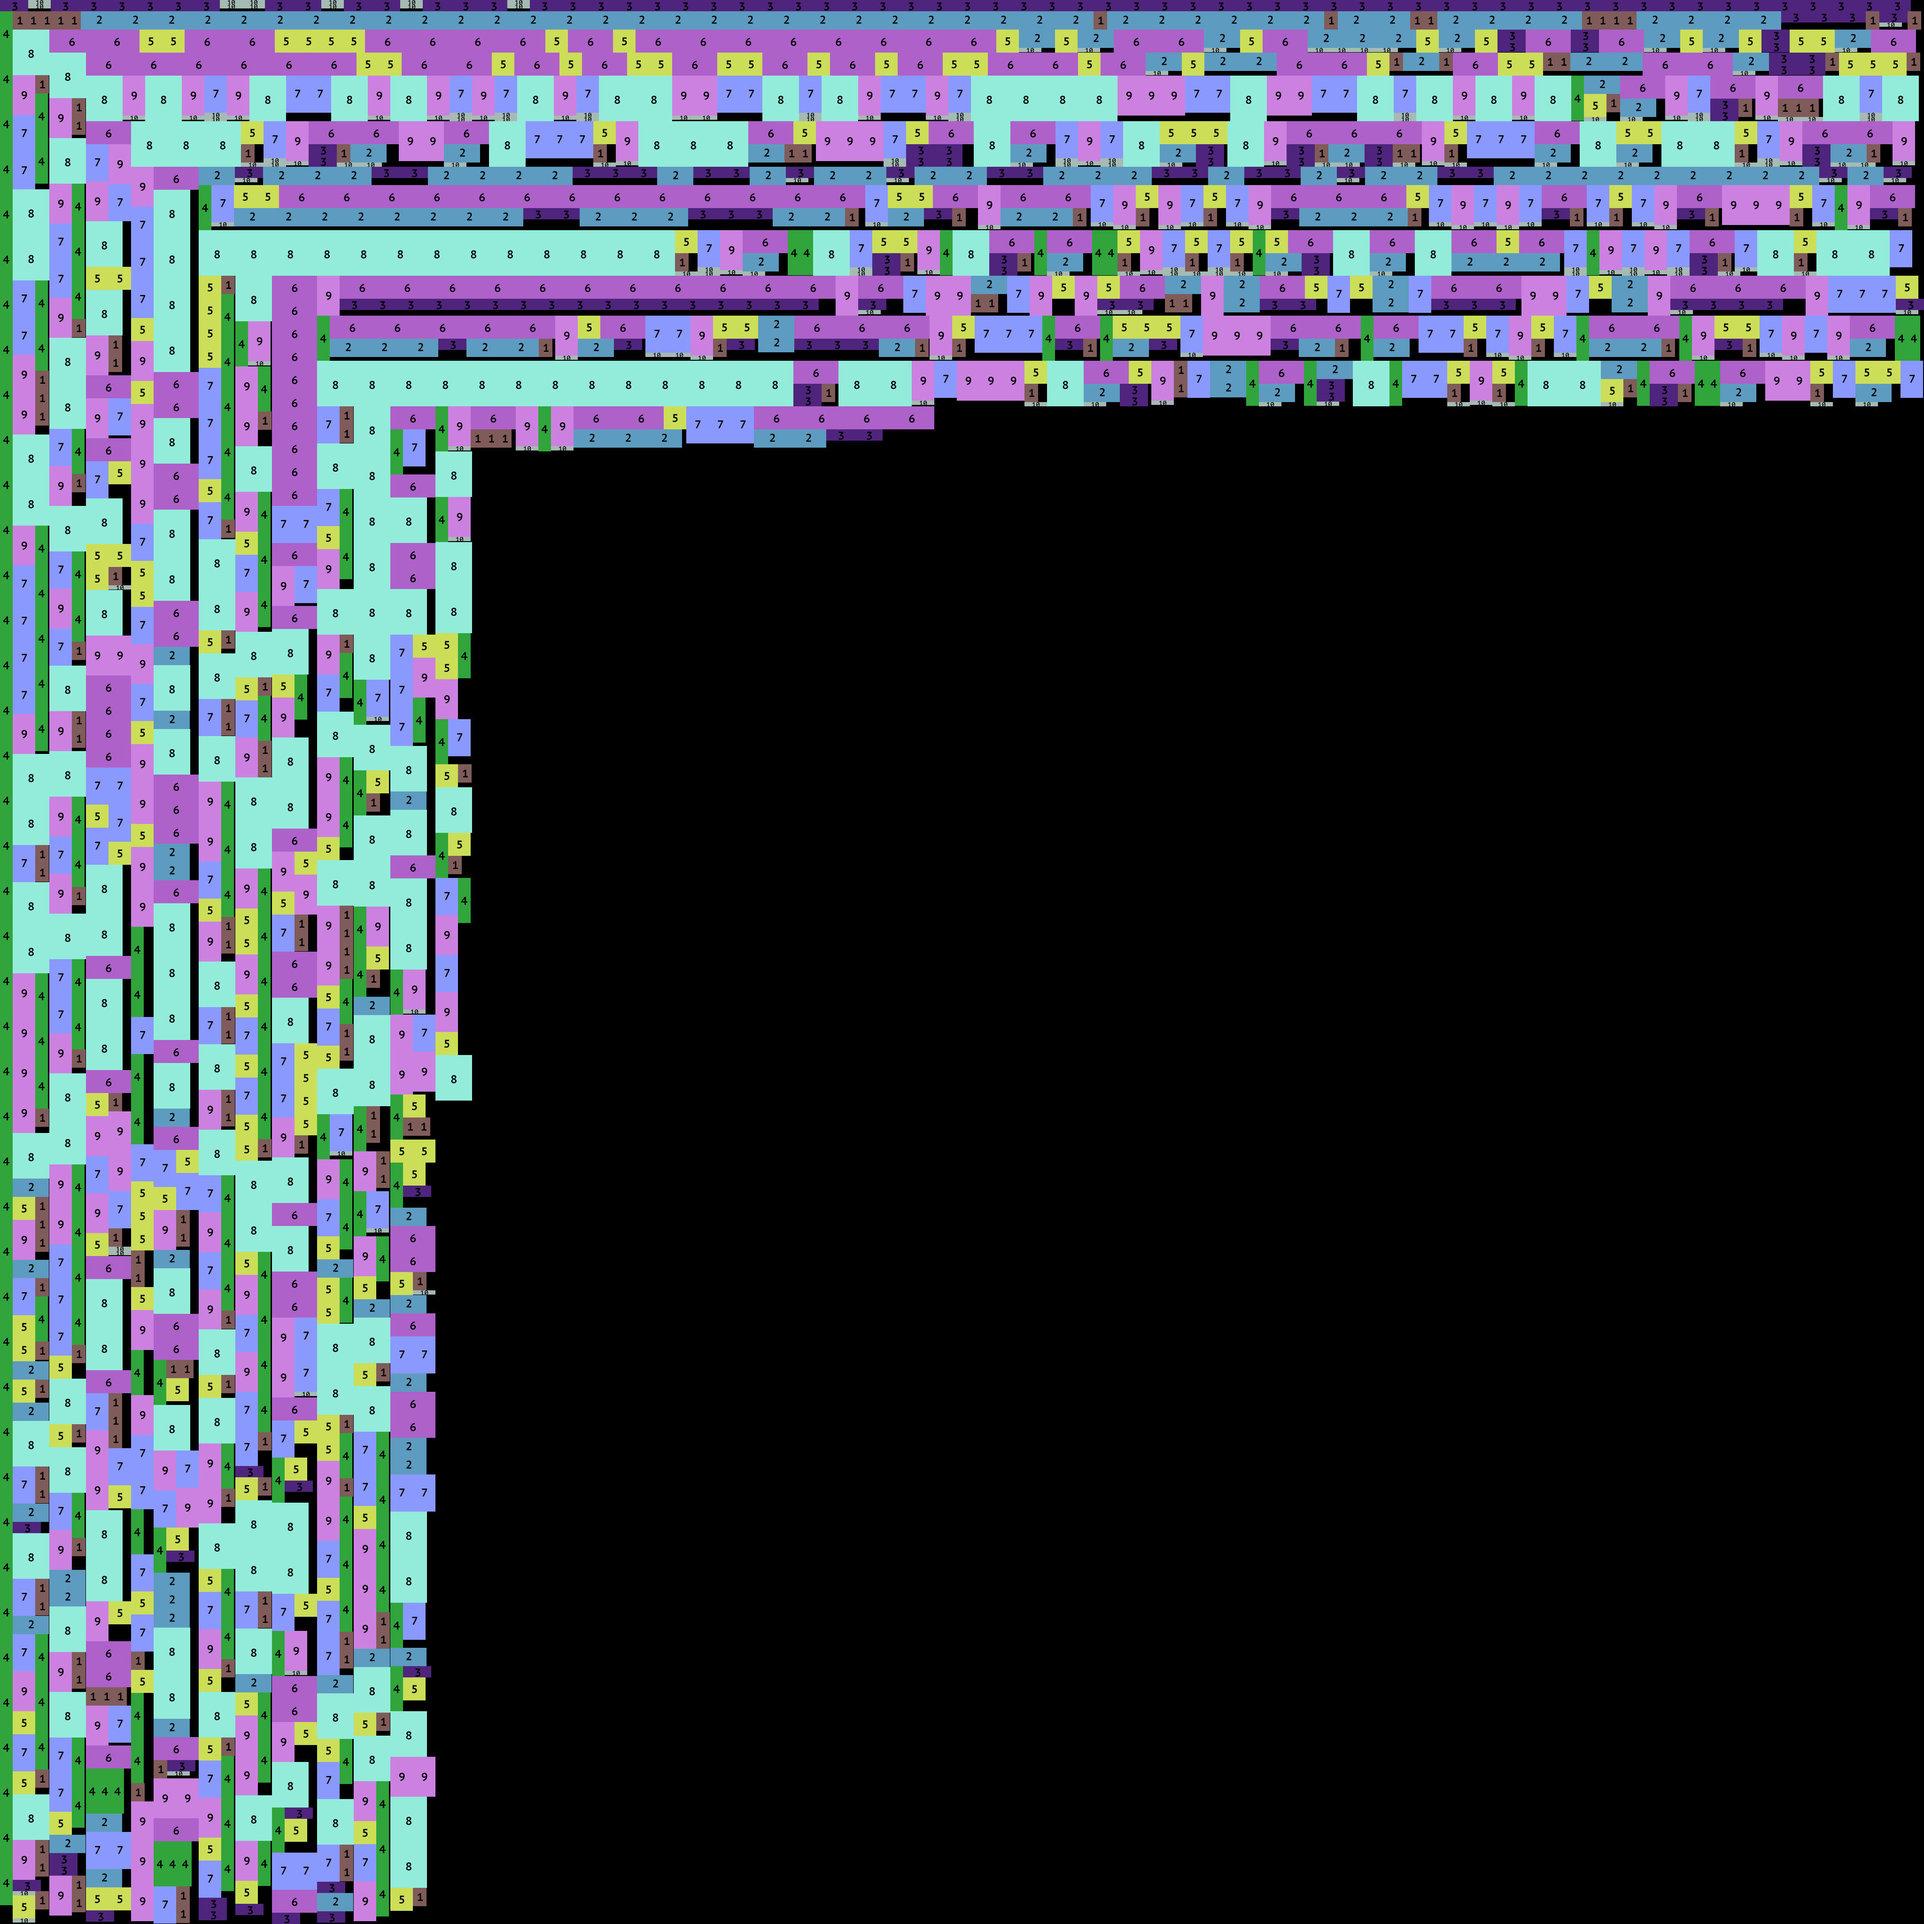
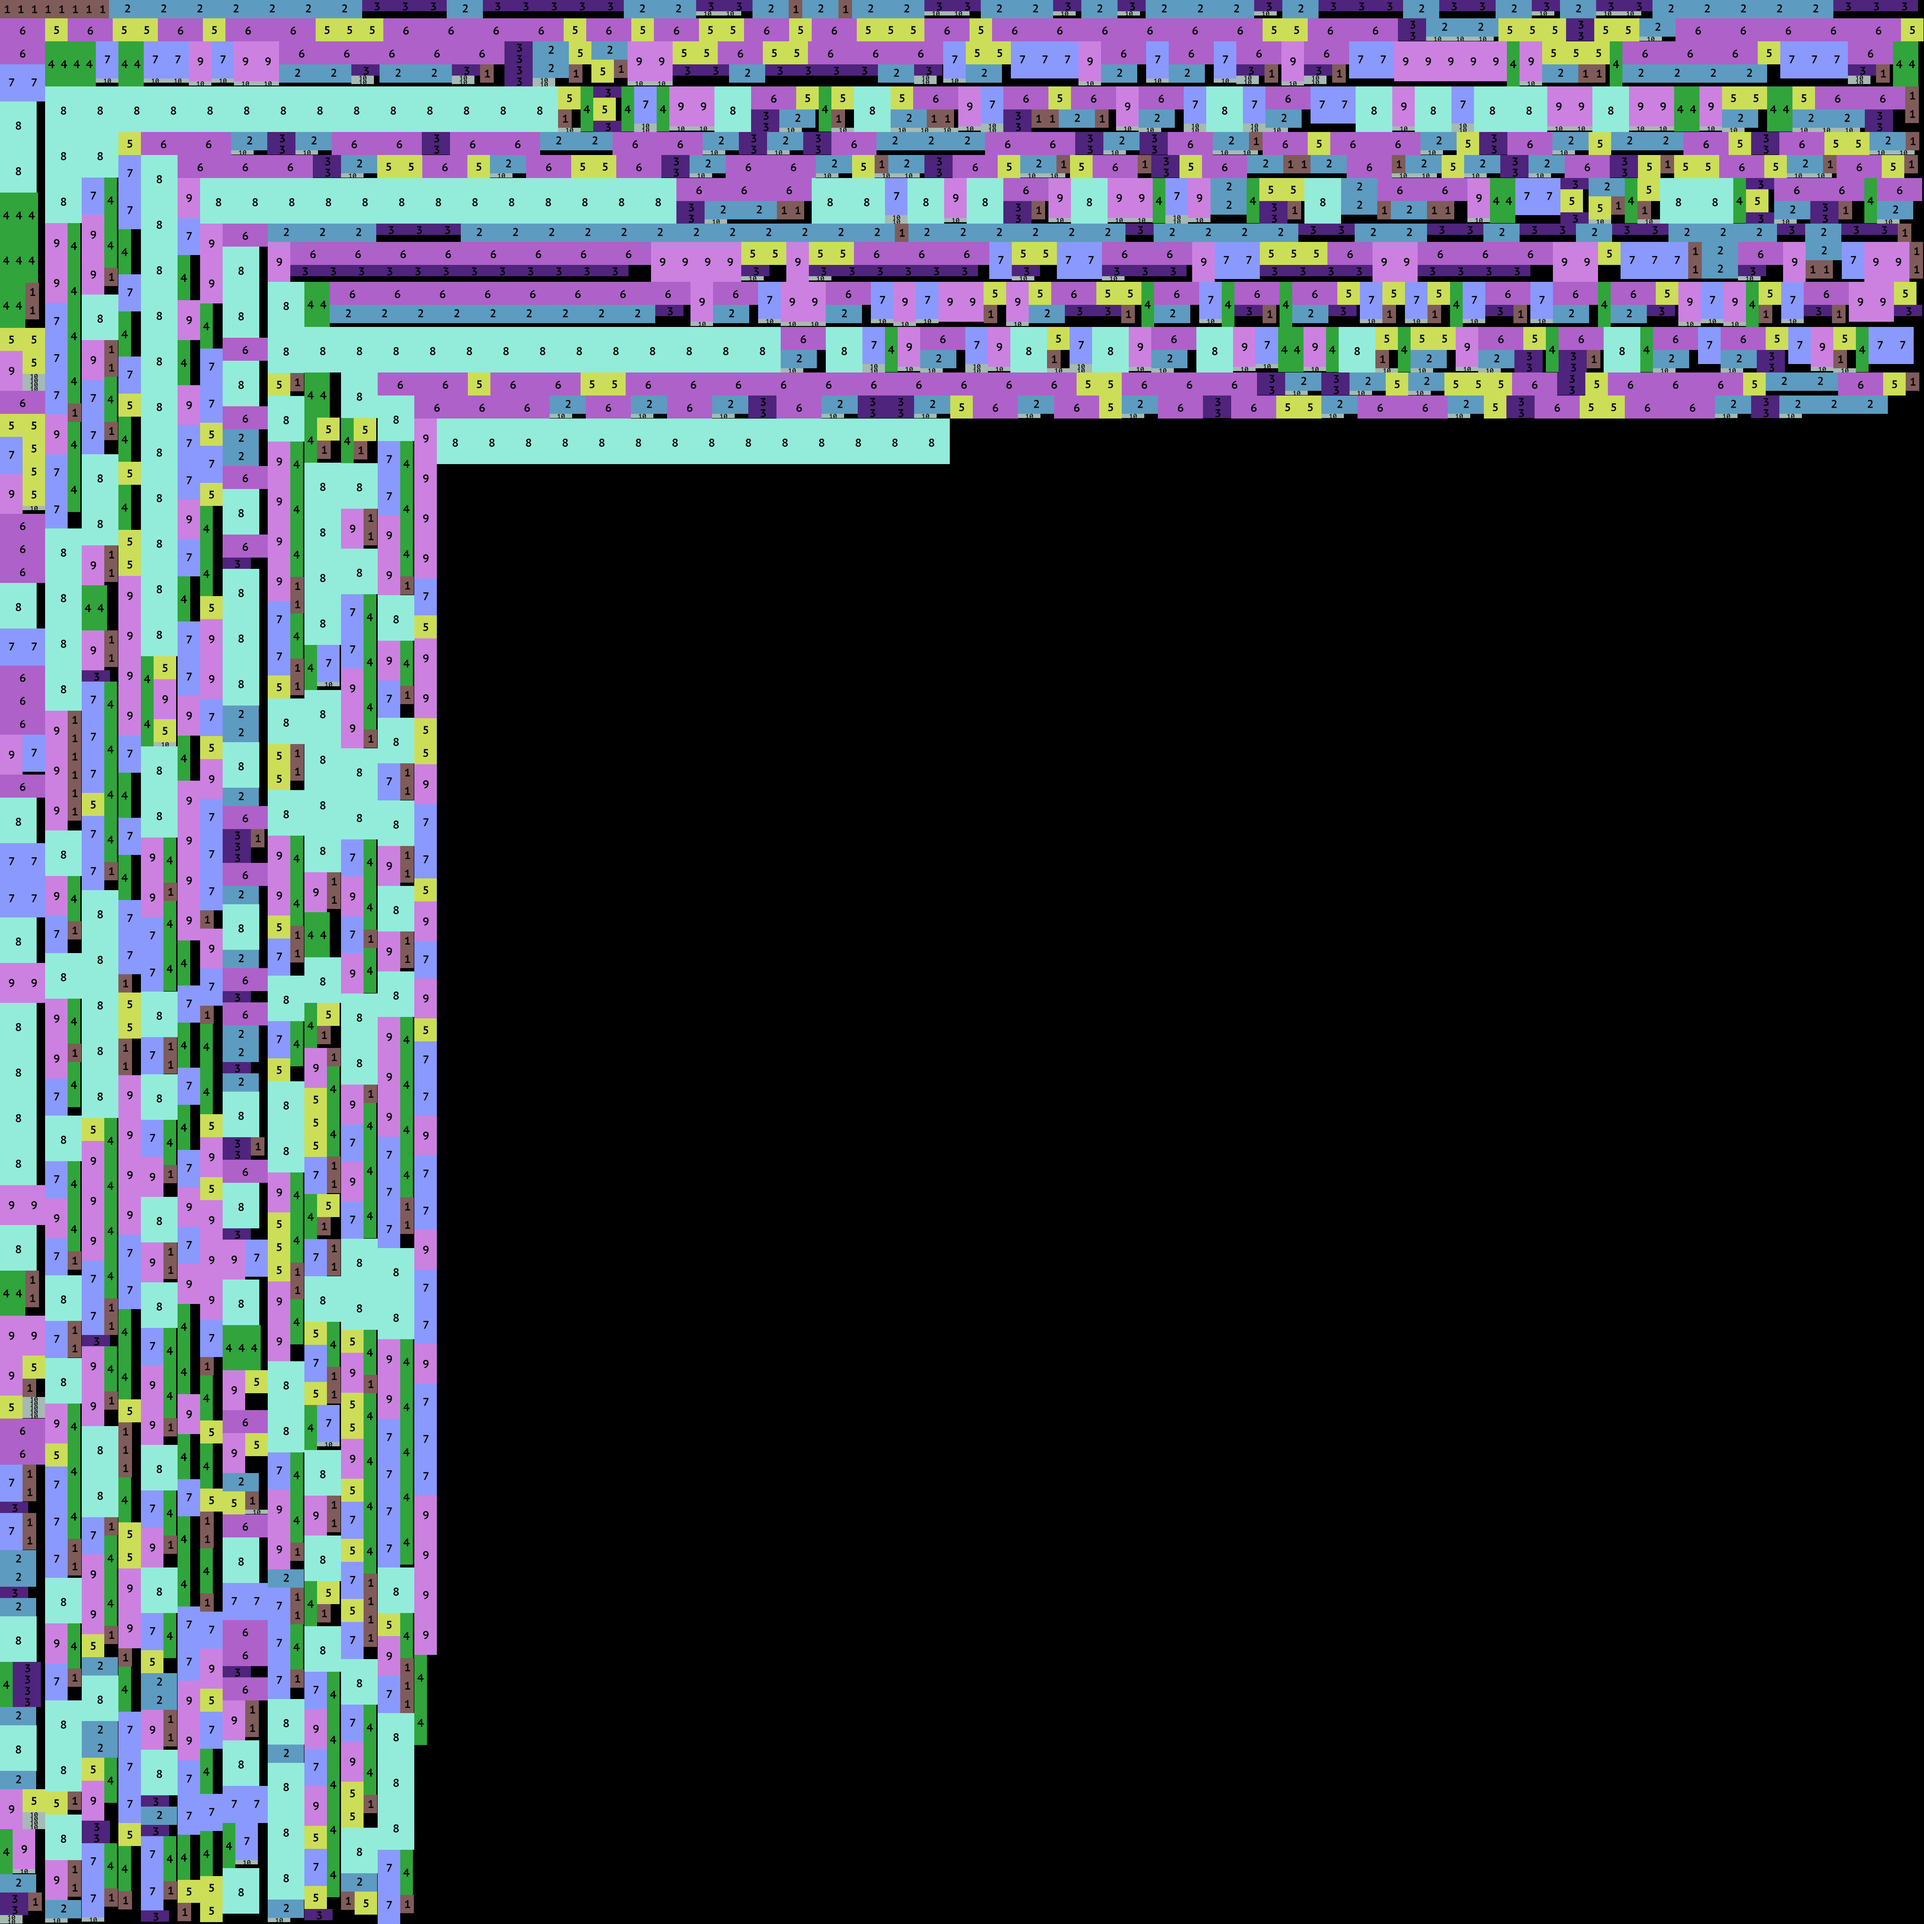
optimize

diff --git a/atlas-packer/src/place.rs b/atlas-packer/src/place.rs
@@ -107,105 +107,97 @@ impl GuillotineTexturePlacer {
     }
 
     fn find_best_rect(&self, width: u32, height: u32) -> Option<Rect> {
-        let mut best_rect = None;
-        let mut best_area = u32::MAX;
-
-        for rect in &self.free_rects {
-            if rect.width >= width && rect.height >= height {
-                let area = rect.width * rect.height;
-                if area < best_area {
-                    best_rect = Some(*rect);
-                    best_area = area;
-                }
-            }
-        }
-
-        best_rect
+        self.free_rects
+            .iter()
+            .filter(|&rect| rect.width >= width && rect.height >= height)
+            .min_by_key(|&rect| rect.width * rect.height)
+            .cloned()
     }
 
     fn split_rect(&mut self, rect: Rect, placed: &PlacedTextureInfo) {
-        let shorter_axis_split = rect.width <= rect.height;
-
-        if shorter_axis_split {
-            let right_rect = Rect {
-                x: rect.x + placed.width + self.config.padding,
-                y: rect.y,
-                width: rect.width - placed.width - self.config.padding,
-                height: placed.height,
-            };
-
-            let bottom_rect = Rect {
-                x: rect.x,
-                y: rect.y + placed.height + self.config.padding,
-                width: rect.width,
-                height: rect.height - placed.height - self.config.padding,
-            };
-
-            if right_rect.width > 0 && right_rect.height > 0 {
-                self.free_rects.push(right_rect);
-            }
-            if bottom_rect.width > 0 && bottom_rect.height > 0 {
-                self.free_rects.push(bottom_rect);
-            }
+        let padding = self.config.padding;
+        let (right_rect, bottom_rect) = if rect.width <= rect.height {
+            (
+                Rect {
+                    x: rect.x + placed.width + padding,
+                    y: rect.y,
+                    width: rect.width - placed.width - padding,
+                    height: placed.height,
+                },
+                Rect {
+                    x: rect.x,
+                    y: rect.y + placed.height + padding,
+                    width: rect.width,
+                    height: rect.height - placed.height - padding,
+                },
+            )
         } else {
-            let right_rect = Rect {
-                x: rect.x + placed.width + self.config.padding,
-                y: rect.y,
-                width: rect.width - placed.width - self.config.padding,
-                height: rect.height,
-            };
+            (
+                Rect {
+                    x: rect.x + placed.width + padding,
+                    y: rect.y,
+                    width: rect.width - placed.width - padding,
+                    height: rect.height,
+                },
+                Rect {
+                    x: rect.x,
+                    y: rect.y + placed.height + padding,
+                    width: placed.width,
+                    height: rect.height - placed.height - padding,
+                },
+            )
+        };
 
-            let bottom_rect = Rect {
-                x: rect.x,
-                y: rect.y + placed.height + self.config.padding,
-                width: placed.width,
-                height: rect.height - placed.height - self.config.padding,
-            };
-
-            if right_rect.width > 0 && right_rect.height > 0 {
-                self.free_rects.push(right_rect);
-            }
-            if bottom_rect.width > 0 && bottom_rect.height > 0 {
-                self.free_rects.push(bottom_rect);
-            }
+        if right_rect.width > 0 && right_rect.height > 0 {
+            self.free_rects.push(right_rect);
+        }
+        if bottom_rect.width > 0 && bottom_rect.height > 0 {
+            self.free_rects.push(bottom_rect);
         }
     }
 
     fn merge_free_rects(&mut self) {
         let mut i = 0;
         while i < self.free_rects.len() {
+            let mut merged = false;
+            let rect1 = self.free_rects[i];
             let mut j = i + 1;
             while j < self.free_rects.len() {
-                let rect1 = self.free_rects[i];
                 let rect2 = self.free_rects[j];
-
-                if rect1.x == rect2.x
-                    && rect1.width == rect2.width
-                    && rect1.y + rect1.height == rect2.y
-                {
-                    self.free_rects[i] = Rect {
-                        x: rect1.x,
-                        y: rect1.y,
-                        width: rect1.width,
-                        height: rect1.height + rect2.height,
-                    };
-                    self.free_rects.remove(j);
-                } else if rect1.y == rect2.y
-                    && rect1.height == rect2.height
-                    && rect1.x + rect1.width == rect2.x
-                {
-                    self.free_rects[i] = Rect {
-                        x: rect1.x,
-                        y: rect1.y,
-                        width: rect1.width + rect2.width,
-                        height: rect1.height,
-                    };
-                    self.free_rects.remove(j);
-                } else {
-                    j += 1;
+                if let Some(merged_rect) = Self::try_merge_rects(rect1, rect2) {
+                    self.free_rects[i] = merged_rect;
+                    self.free_rects.swap_remove(j);
+                    merged = true;
+                    break;
                 }
+                j += 1;
             }
-            i += 1;
+            if !merged {
+                i += 1;
+            }
+        }
+    }
+
+    fn try_merge_rects(rect1: Rect, rect2: Rect) -> Option<Rect> {
+        if rect1.x == rect2.x && rect1.width == rect2.width && rect1.y + rect1.height == rect2.y {
+            Some(Rect {
+                x: rect1.x,
+                y: rect1.y,
+                width: rect1.width,
+                height: rect1.height + rect2.height,
+            })
+        } else if rect1.y == rect2.y
+            && rect1.height == rect2.height
+            && rect1.x + rect1.width == rect2.x
+        {
+            Some(Rect {
+                x: rect1.x,
+                y: rect1.y,
+                width: rect1.width + rect2.width,
+                height: rect1.height,
+            })
+        } else {
+            None
         }
     }
 
